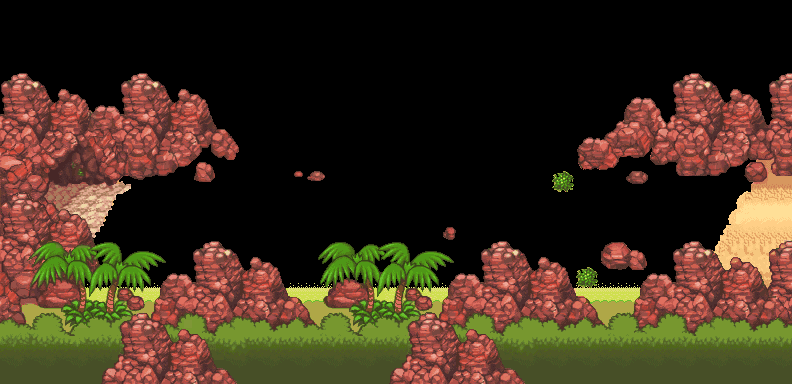
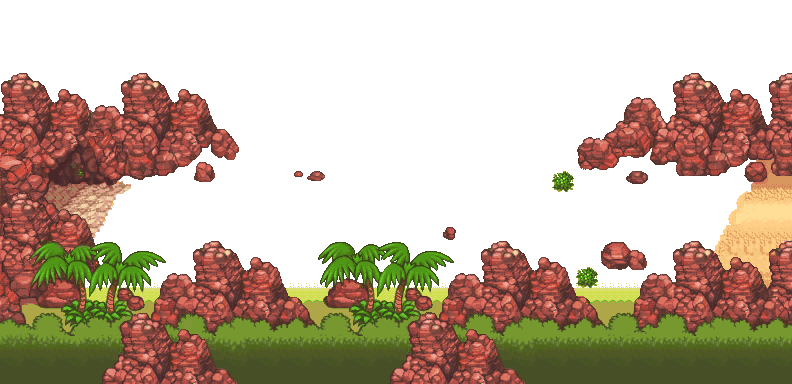
Fix color issues

diff --git a/dungeon_explorer/ground/groundmap.py b/dungeon_explorer/ground/groundmap.py
@@ -26,7 +26,8 @@ class GroundMap:
                     self.lower_bg.set_palette_at(self.palette_num*16 + i, col)
 
     def render(self) -> pygame.Surface:
-        surface = self.lower_bg.copy()
+        surface = pygame.Surface(self.lower_bg.get_size(), pygame.SRCALPHA)
+        surface.blit(self.lower_bg, (0, 0))
         surface.blit(self.higher_bg, (0, 0))
         for anim, pos in zip(self.animations, self.animation_positions):
             surface.blit(anim.render(), pos)
@@ -46,11 +47,9 @@ class GroundMapDatabase:
     def load(self, ground_id: str):
         ground_dir = os.path.join(self.base_dir, ground_id)
         lower_bg = pygame.image.load(os.path.join(ground_dir, f"{ground_id}_LOWER.png"))
-        print(lower_bg.get_palette())
 
         try:
-            higher_bg = pygame.image.load(os.path.join(ground_dir, f"{ground_id}_HIGHER.png")).convert_alpha()
-            higher_bg.set_colorkey((0, 0, 0))
+            higher_bg = pygame.image.load(os.path.join(ground_dir, f"{ground_id}_HIGHER.png"))
         except:
             higher_bg = pygame.Surface((0, 0), pygame.SRCALPHA)
 
